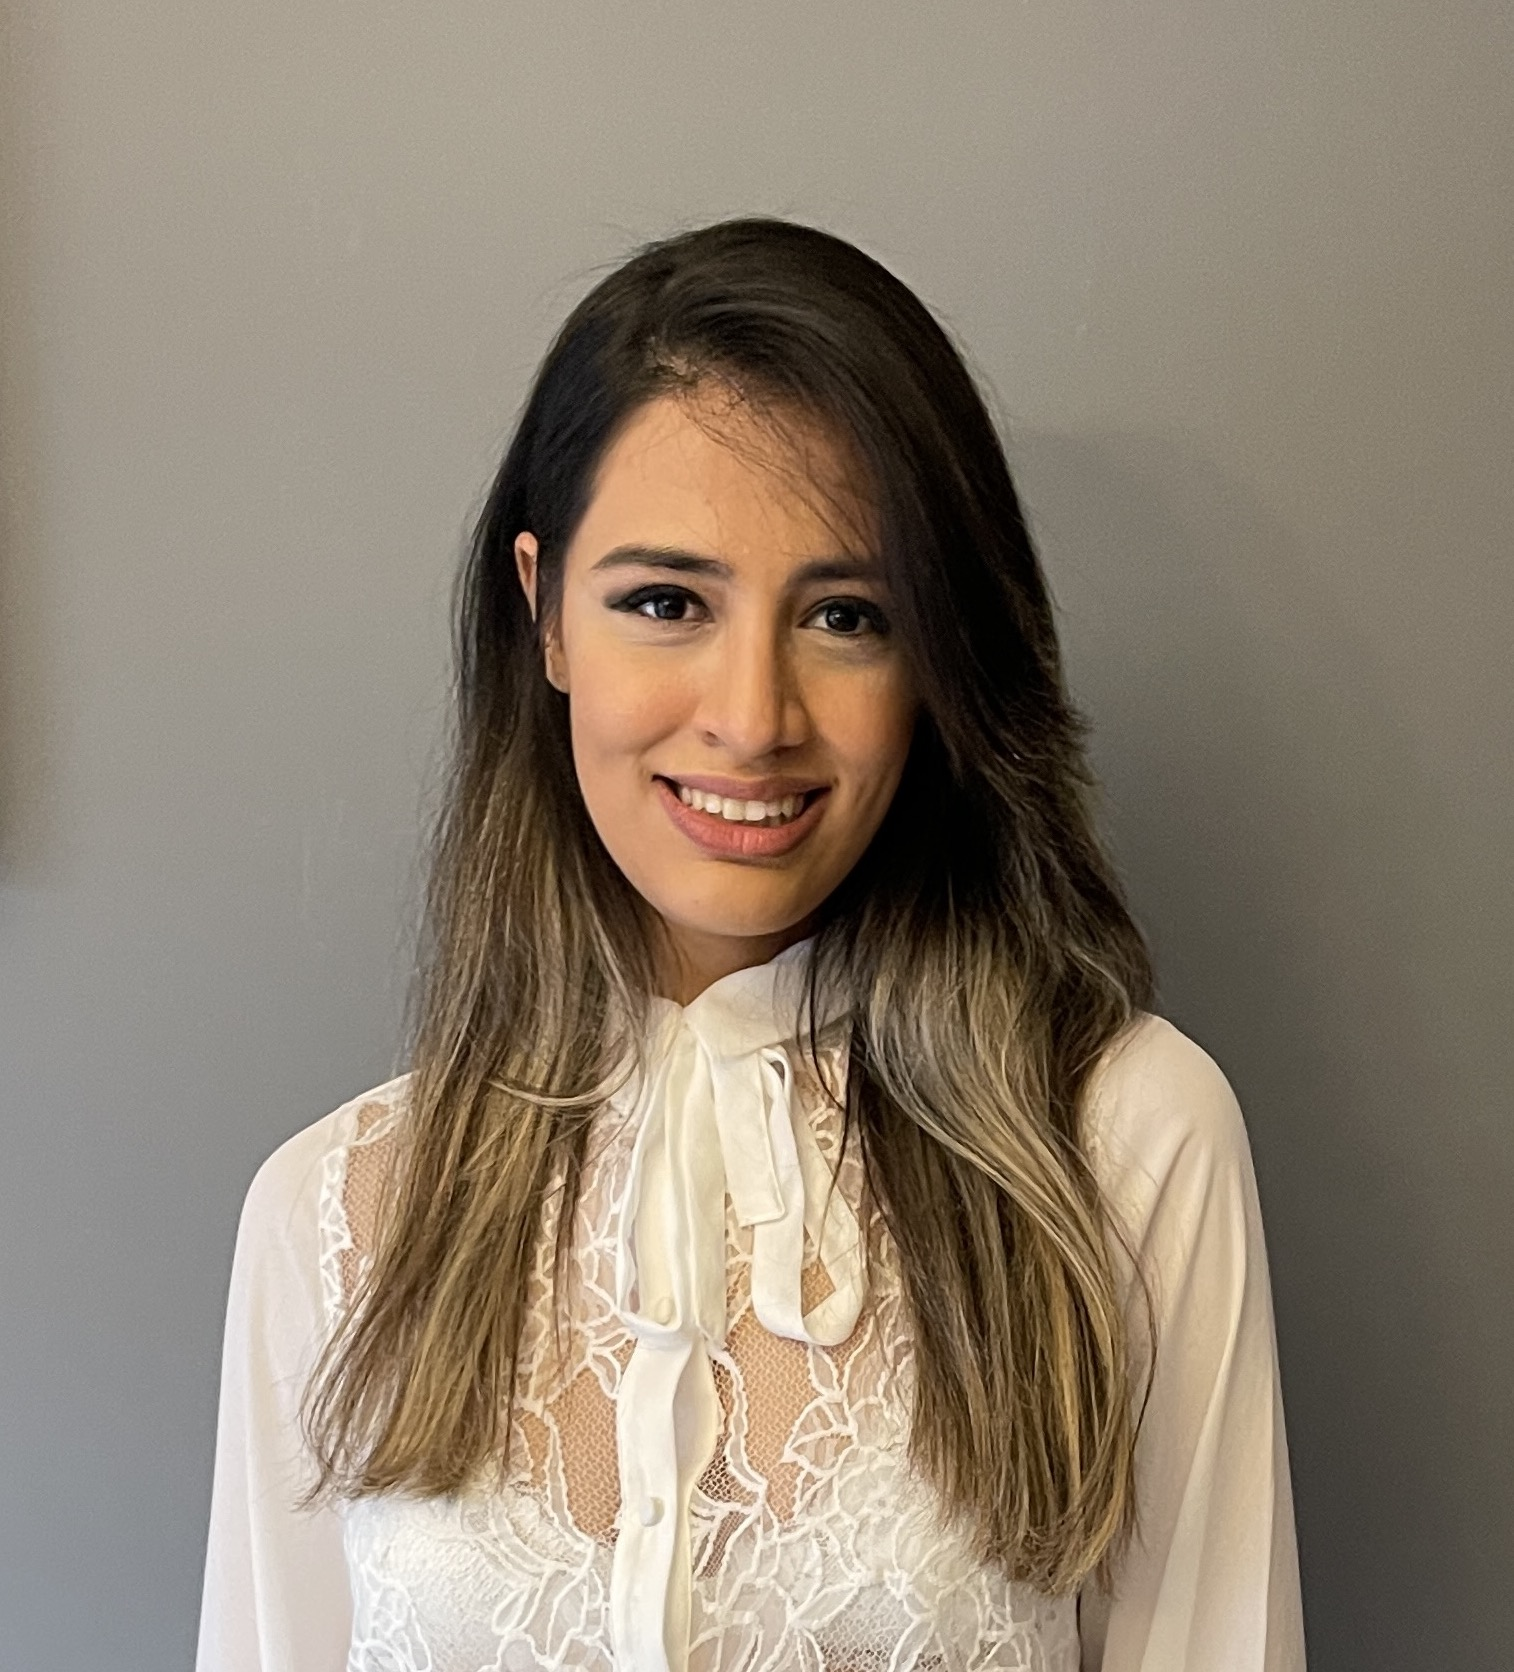
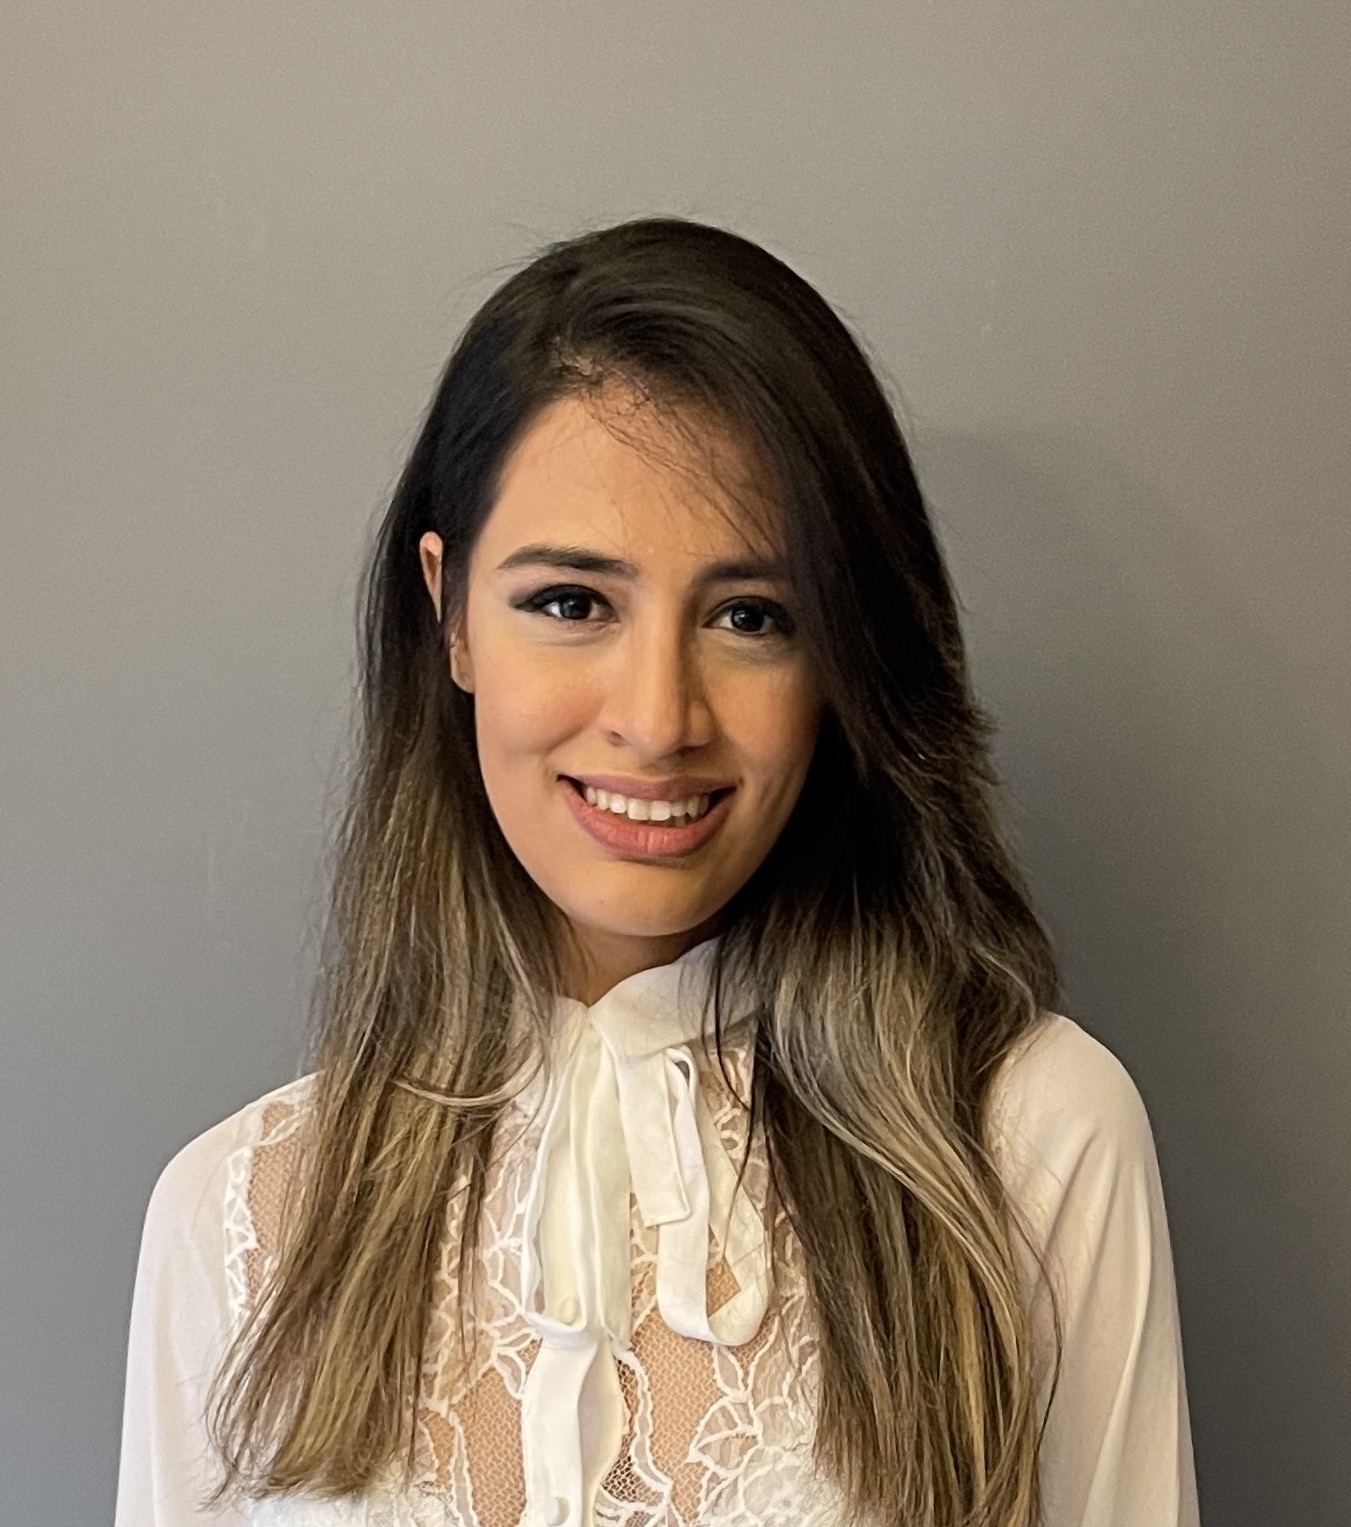
fixed picture

diff --git a/index.html b/index.html
@@ -54,7 +54,7 @@
 						<!-- One -->
 							<section id="one" class="wrapper spotlight style1">
 								<div class="inner">
-									<a href="#" class="image"><img src="images/headshot.jpg" alt="" /></a>
+									<a href="#" class="image"><img src="images/headshot2.jpeg" alt="" /></a>
 									<div class="content">
 										<h2 class="major">ABOUT ME</h2>
 										<p>I am a fourth-year Computer Science student. I am a researcher at the computer science department of
